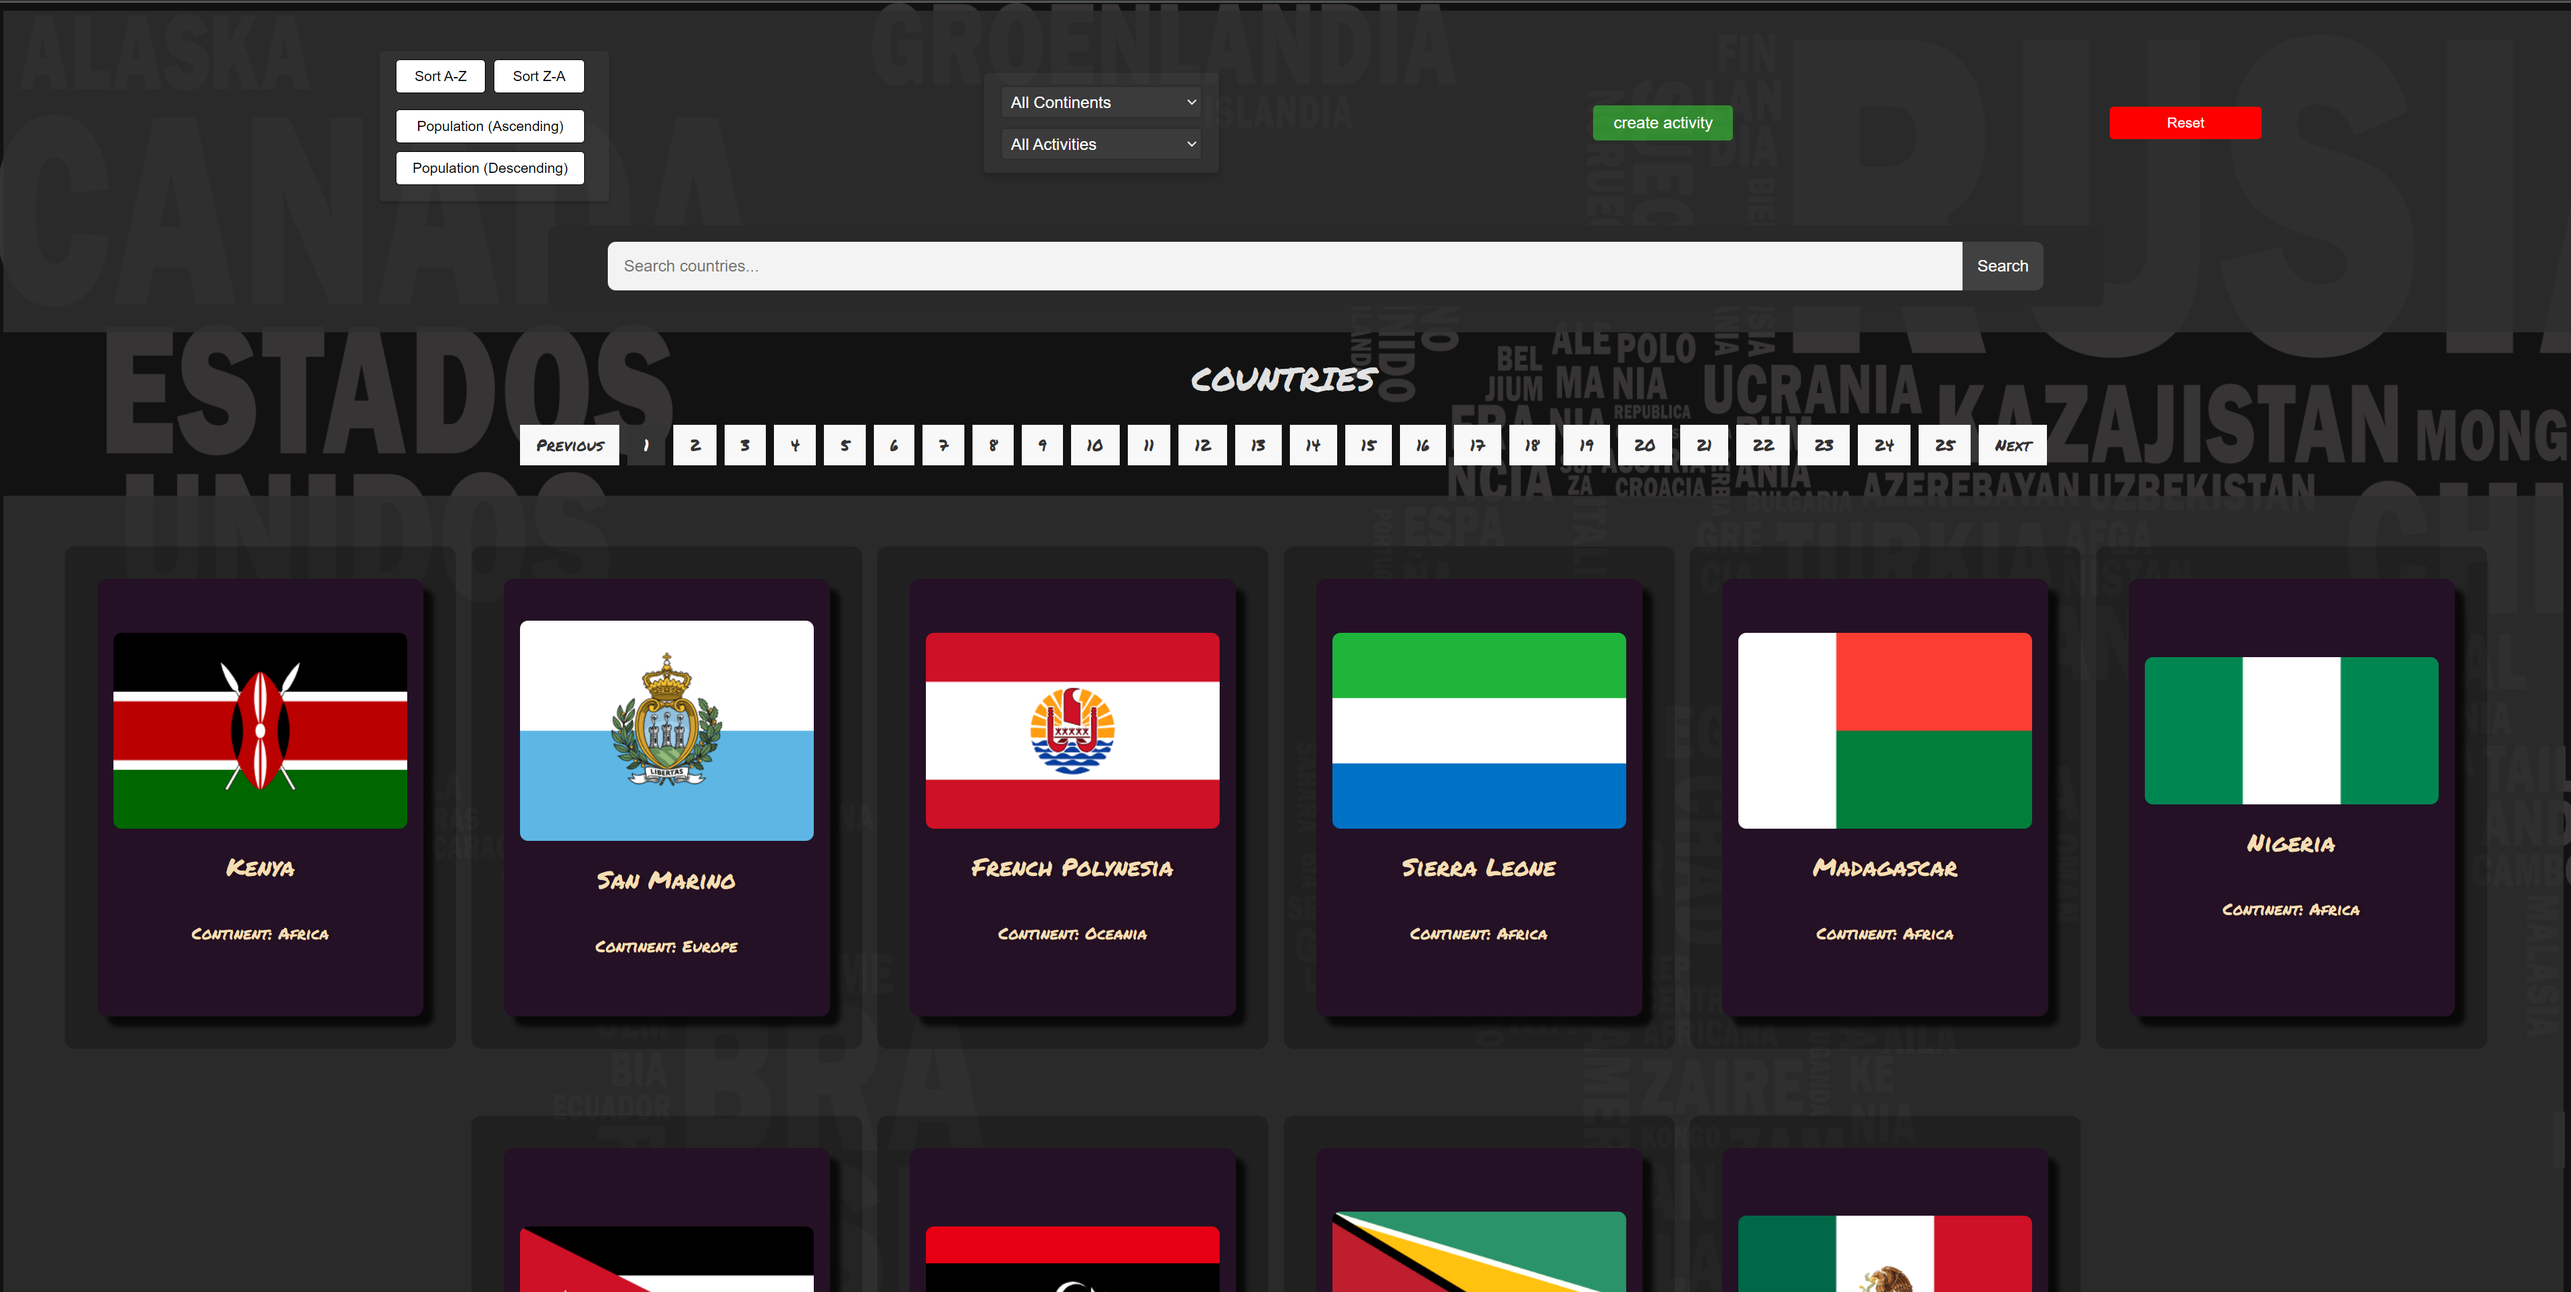
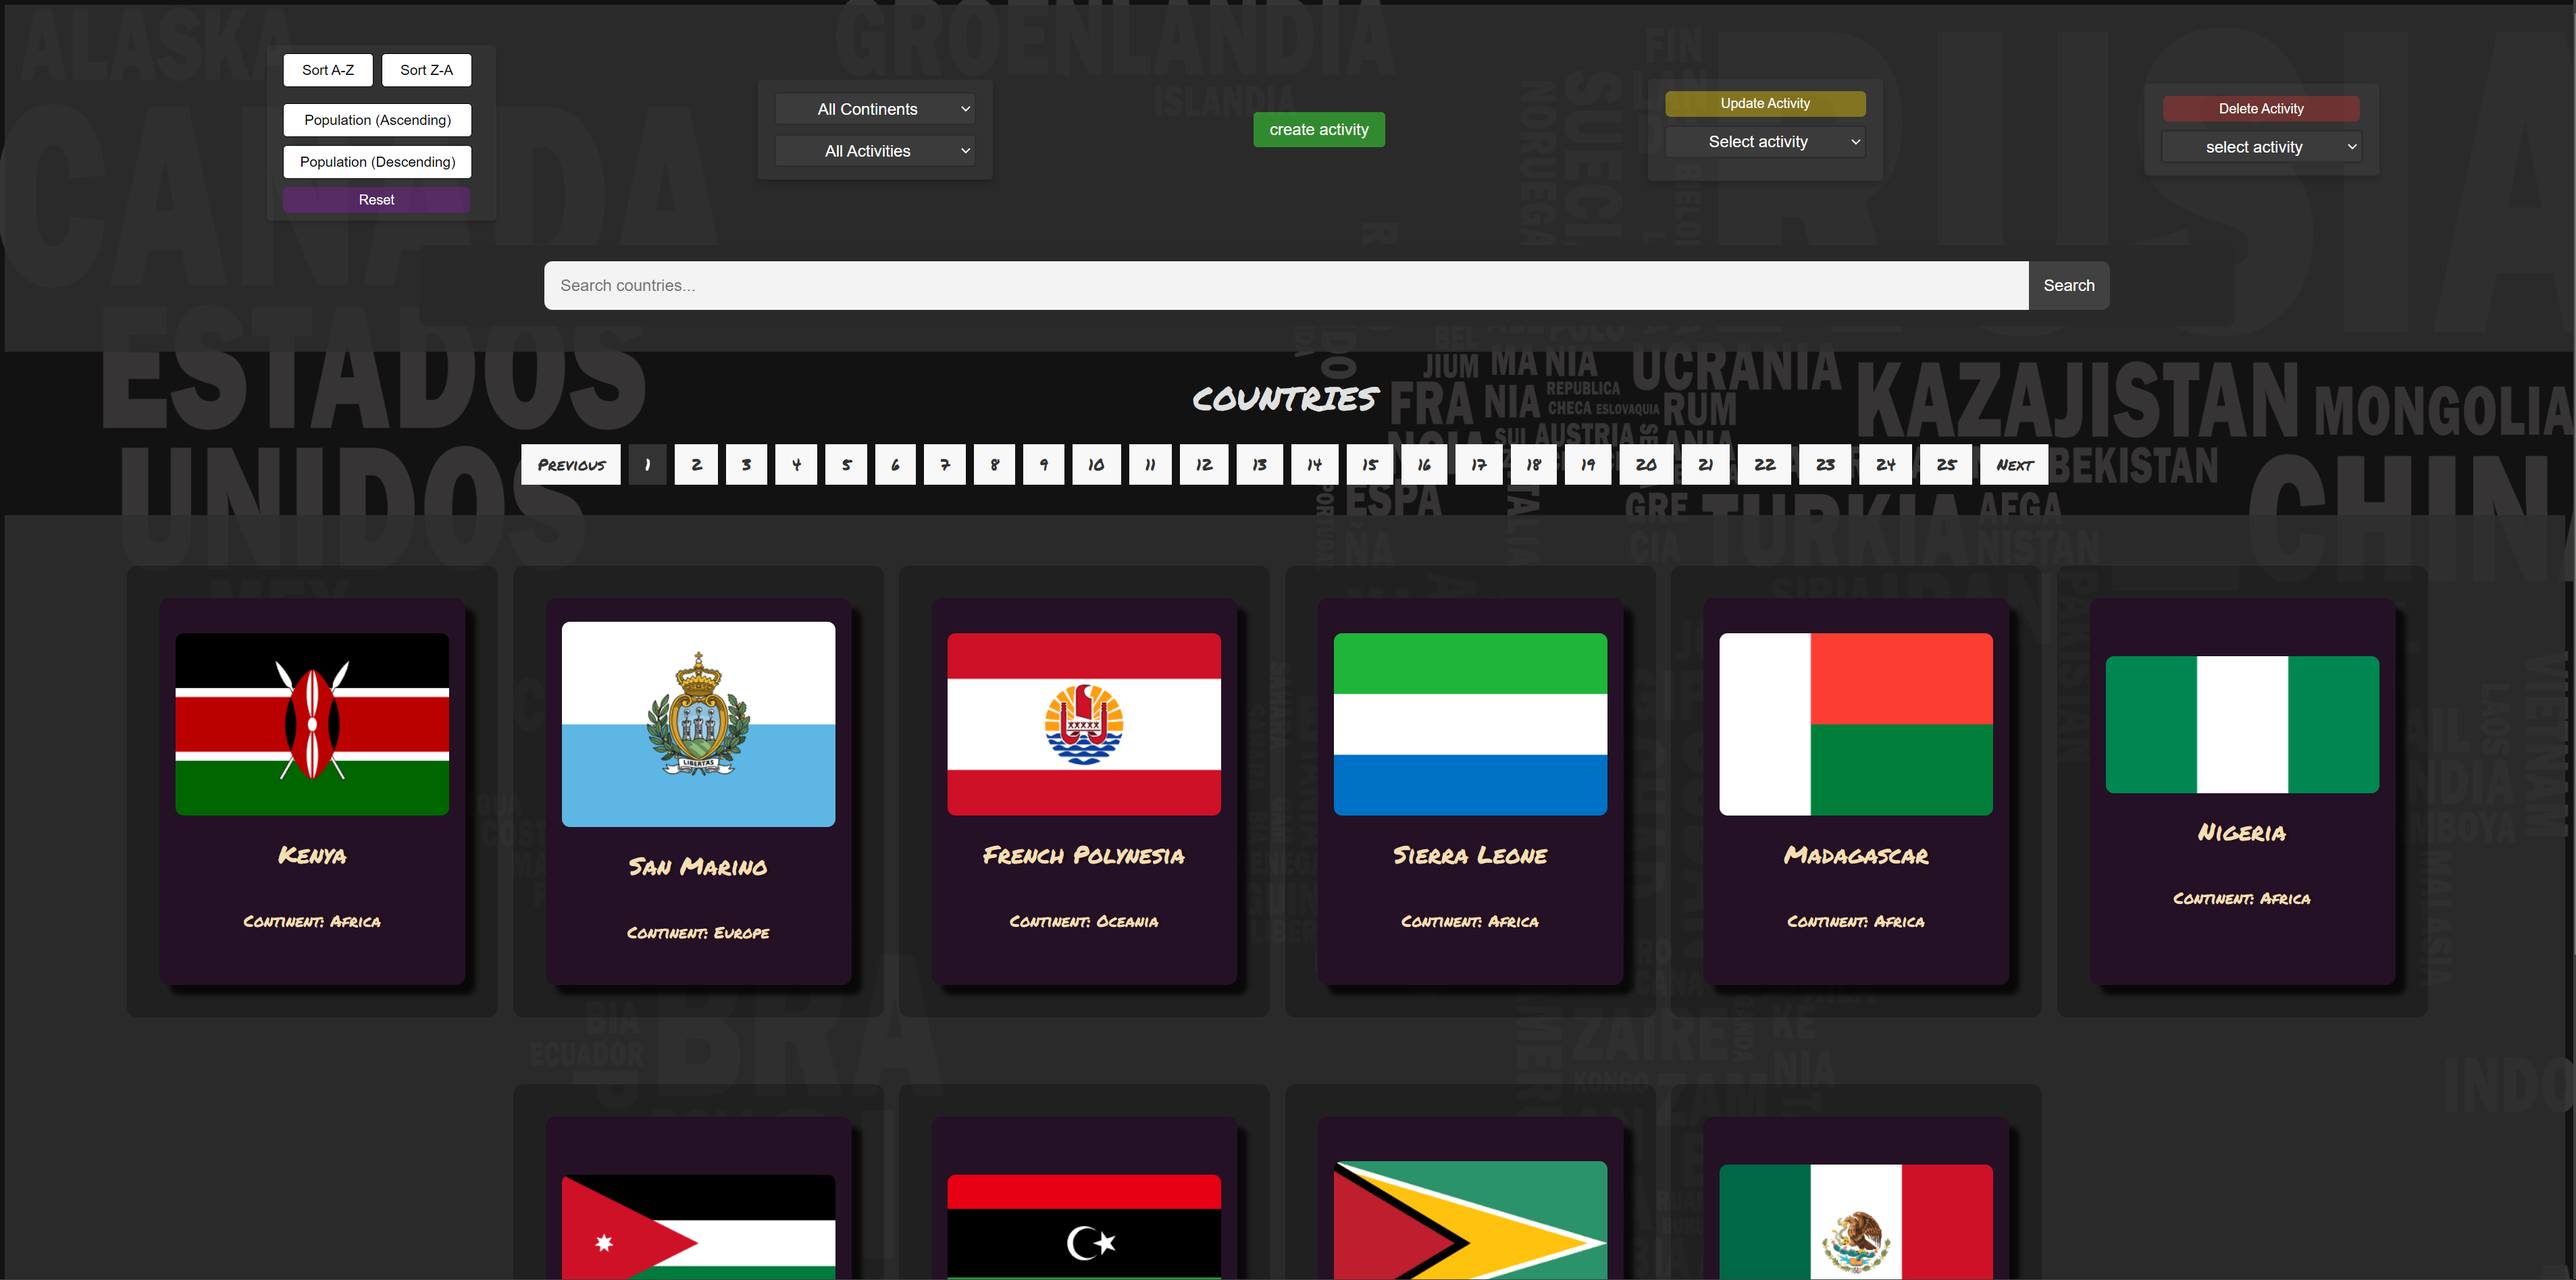
README

diff --git a/client/src/components/FormPage/FormPage.jsx b/client/src/components/FormPage/FormPage.jsx
@@ -117,7 +117,7 @@ const FormPage = () => {
             {notification.message}
           </div>
         )}
-        <form className="form" onSubmit={handleSubmit}>
+        <form className="form" onSubmit={handleSubmit} >
           <div className="form-group">
             <label className="form-label" htmlFor="name">
               Name Activity:

diff --git a/client/src/components/Pagination/Pagination.jsx b/client/src/components/Pagination/Pagination.jsx
@@ -24,6 +24,7 @@ const Pagination = ({ pageNumber, totalPages, navigate }) => {
   };
 
   const renderPageButtons = () => {
+  
     const buttons = []
 
     for (let i = firstPage; i <= lastPage; i++) {

diff --git a/README.md b/README.md
@@ -1,4 +1,4 @@
-## COUNTRIES
+# COUNTRIES APP - CRUD Completo
 
 ## ** OBJETIVOS**
 
@@ -30,6 +30,14 @@ La idea de este proyecto es construir una aplicación web a partir de la API [**
 
 ⚠ Para las funcionalidades de filtrado y ordenamiento NO se puede utilizar los endpoints de la API externa que ya devuelven los resultados filtrados u ordenados.
 
+## Funcionalidades CRUD
+
+La aplicación cuenta con las siguientes funcionalidades CRUD:
+
+1. Crear actividades turísticas: Los usuarios pueden crear nuevas actividades turísticas asociadas a un país específico, ingresando el nombre de la actividad, su dificultad, duración y temporada recomendada.
+2. Actualizar actividades turísticas: Los usuarios pueden modificar la información de las actividades turísticas existentes.
+3. Eliminar actividades turísticas: Los usuarios pueden eliminar actividades turísticas que ya no deseen.
+
 ### **Único end-point que se puede utilizar**
 
 - [**http://localhost:5000/countries**]
@@ -39,6 +47,12 @@ La idea de este proyecto es construir una aplicación web a partir de la API [**
 <img src="./client/src/assets/foto1.png" />
 
 <br />
+
+<div align="center">
+  <img src="./client/src/assets/foto6.png" />
+</div>
+
+<br/>
 
 <img src="./client/src/assets/foto2.png" />
 
@@ -54,12 +68,5 @@ La idea de este proyecto es construir una aplicación web a partir de la API [**
 
 <img src="./client/src/assets/foto5.png" />
 
-<br />
 
-<img src="./client/src/assets/foto6.png" />
-
-<br />
-
-<div align="center">
-  <img src="./client/src/assets/responsive1.png" alt="Responsive Image" />
-</div>
+<br/>
